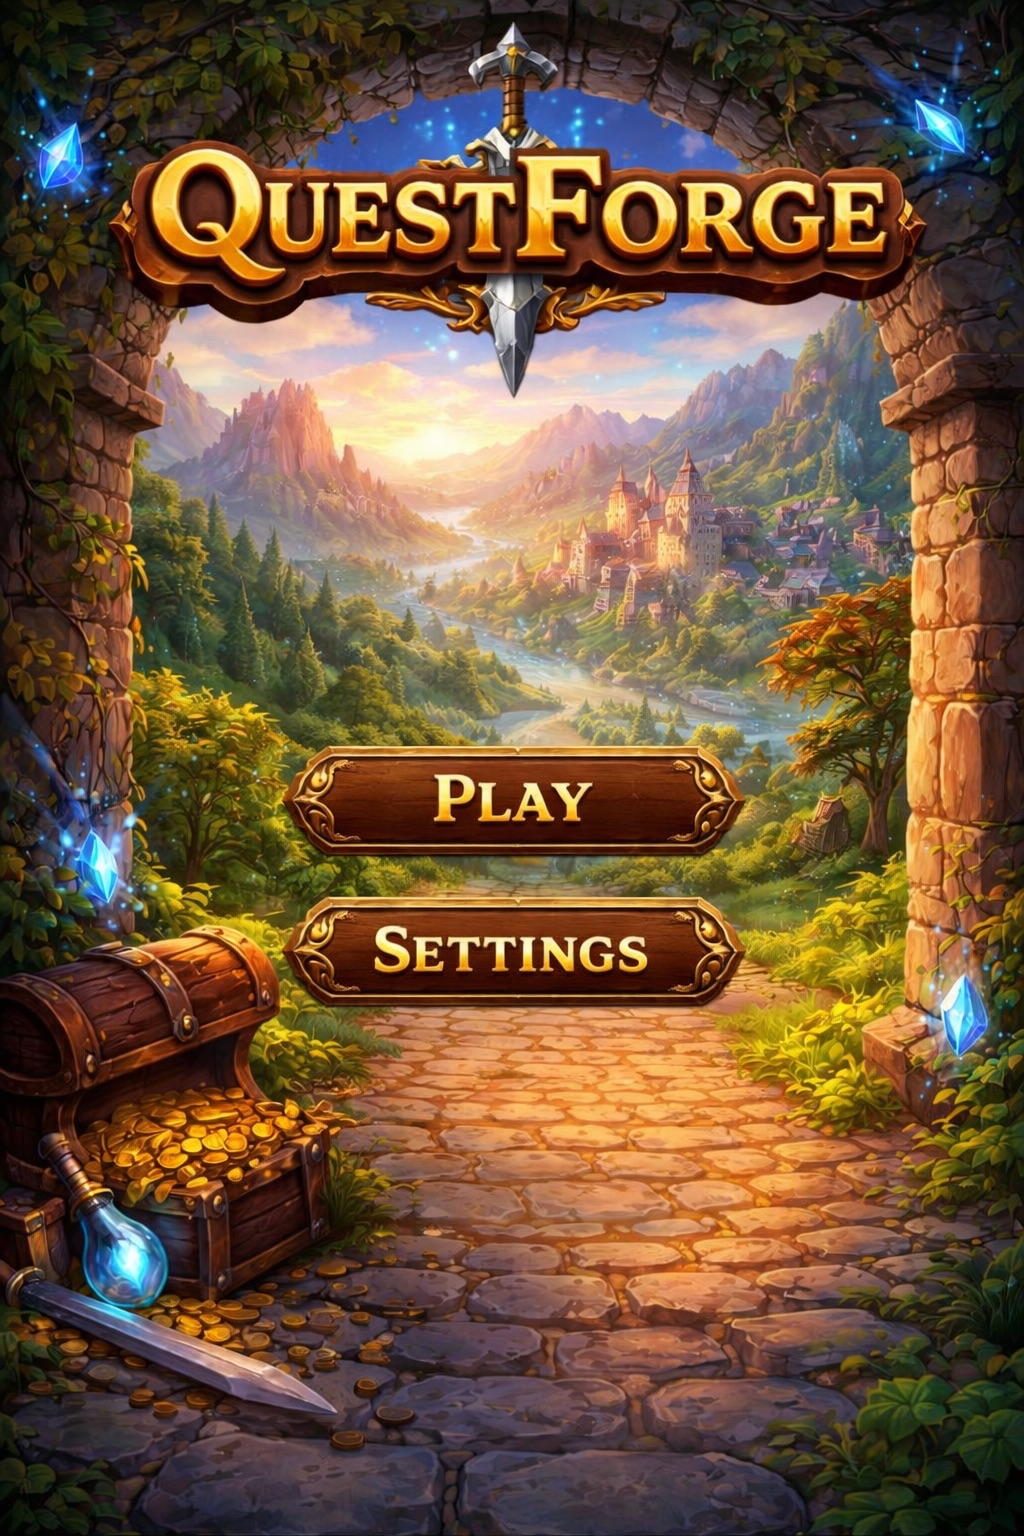
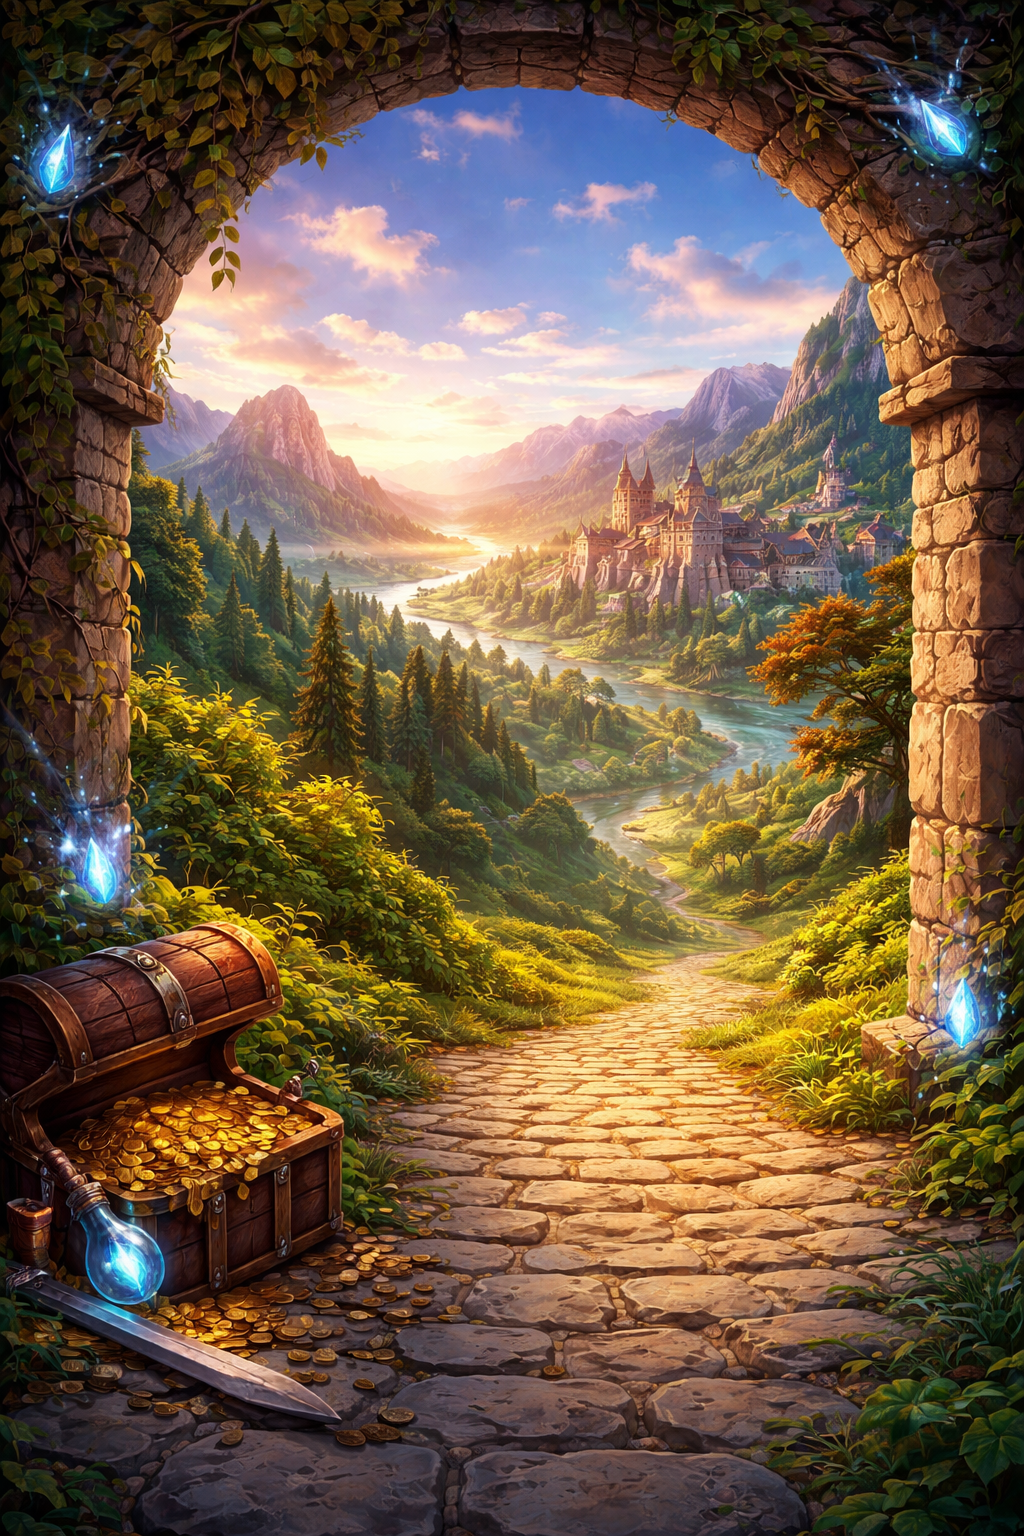
feat: new main menu with fantasy bg, styled buttons, and Linking fix
- Replaced expo-web-browser with Linking.openURL (Expo Go compatible)
- New fantasy archway background image, stretched fullscreen
- Fantasy-styled Begin Adventure and Settings buttons with Cinzel font
- Removed invisible hit zones in favor of proper styled Pressable buttons

diff --git a/app/menu.tsx b/app/menu.tsx
@@ -2,8 +2,7 @@
 // Uses the AI-generated background image with invisible Pressable hit zones
 
 import { useEffect, useState, useRef } from 'react';
-import { View, Image, Pressable, Text, StyleSheet, Dimensions, ActivityIndicator } from 'react-native';
-import * as WebBrowser from 'expo-web-browser';
+import { View, Image, Pressable, Text, StyleSheet, ActivityIndicator, Linking } from 'react-native';
 import { useRouter } from 'expo-router';
 import { Audio } from 'expo-av';
 import { supabase } from '@/services/supabase';
@@ -12,20 +11,7 @@ import * as Haptics from 'expo-haptics';
 import { useSettingsStore } from '@/stores/useSettingsStore';
 import { colors } from '@/theme/colors';
 import { parseAIContent } from '@/utils/parseAI';
-
-const { width: SCREEN_W, height: SCREEN_H } = Dimensions.get('window');
-
-// Scale image to fill most of the screen — leave just enough for legal footer
-const FOOTER_H = 120;
-const IMG_DISPLAY_H = SCREEN_H - FOOTER_H;
-
-// Button positions as % of the image's displayed height
-const PLAY_TOP = IMG_DISPLAY_H * 0.505;
-const PLAY_H = IMG_DISPLAY_H * 0.065;
-const SETTINGS_TOP = IMG_DISPLAY_H * 0.595;
-const SETTINGS_H = IMG_DISPLAY_H * 0.065;
-const BTN_LEFT = SCREEN_W * 0.15;
-const BTN_WIDTH = SCREEN_W * 0.70;
+import { useSafeAreaInsets } from 'react-native-safe-area-context';
 
 export default function MenuScreen() {
   const router = useRouter();
@@ -150,63 +136,67 @@ export default function MenuScreen() {
     router.push('/settings');
   };
 
+  const insets = useSafeAreaInsets();
+
   return (
     <View style={styles.container}>
       <Image
         source={require('../assets/main-menu-bg.png')}
-        style={{ width: SCREEN_W, height: IMG_DISPLAY_H }}
+        style={StyleSheet.absoluteFill}
         resizeMode="stretch"
       />
 
-      {/* Hit zones over painted buttons */}
-      <Pressable
-        style={[styles.hitZone, {
-          top: PLAY_TOP,
-          left: BTN_LEFT,
-          width: BTN_WIDTH,
-          height: PLAY_H,
-        }]}
-        onPress={handlePlay}
-        disabled={loading}
-      />
+      {/* Bottom content area */}
+      <View style={[styles.bottomArea, { paddingBottom: Math.max(insets.bottom, 16) }]}>
+        {/* Buttons */}
+        <View style={styles.buttonGroup}>
+          <Pressable
+            onPress={handlePlay}
+            disabled={loading}
+            style={({ pressed }) => [
+              styles.btn,
+              styles.btnPlay,
+              pressed && styles.btnPressed,
+            ]}
+          >
+            <View style={styles.btnInner}>
+              <Text style={styles.btnPlayText}>Begin Adventure</Text>
+            </View>
+          </Pressable>
 
-      <Pressable
-        style={[styles.hitZone, {
-          top: SETTINGS_TOP,
-          left: BTN_LEFT,
-          width: BTN_WIDTH,
-          height: SETTINGS_H,
-        }]}
-        onPress={handleSettings}
-      />
+          <Pressable
+            onPress={handleSettings}
+            style={({ pressed }) => [
+              styles.btn,
+              styles.btnSettings,
+              pressed && styles.btnPressed,
+            ]}
+          >
+            <Text style={styles.btnSettingsText}>Settings</Text>
+          </Pressable>
+        </View>
 
-      {/* Legal footer in the black space below the image */}
-      <View style={styles.legalFooter}>
+        {/* Legal */}
         <Text style={styles.legalAI}>
-          Game narration powered by AI (Claude by Anthropic).{'\n'}
-          All game mechanics resolved by deterministic engine.
+          Game narration powered by AI (Claude by Anthropic)
         </Text>
         <View style={styles.legalLinks}>
           <Text
             style={styles.legalLink}
-            onPress={() => WebBrowser.openBrowserAsync('https://bsbdtdexdlyruojyabtn.supabase.co/storage/v1/object/public/legal/privacy-policy.html')}
+            onPress={() => Linking.openURL('https://bsbdtdexdlyruojyabtn.supabase.co/storage/v1/object/public/legal/privacy-policy.html')}
           >
             Privacy Policy
           </Text>
           <Text style={styles.legalDot}> · </Text>
           <Text
             style={styles.legalLink}
-            onPress={() => WebBrowser.openBrowserAsync('https://bsbdtdexdlyruojyabtn.supabase.co/storage/v1/object/public/legal/terms-of-service.html')}
+            onPress={() => Linking.openURL('https://bsbdtdexdlyruojyabtn.supabase.co/storage/v1/object/public/legal/terms-of-service.html')}
           >
             Terms of Service
           </Text>
         </View>
-        <Text style={styles.legalCopy}>
-          v0.1.0 · Made with ⚔ in the Realm
-        </Text>
       </View>
 
-      {/* Loading spinner when Play is pressed */}
       {loading && (
         <View style={styles.loadingOverlay}>
           <ActivityIndicator size="large" color={colors.gold.primary} />
@@ -221,39 +211,81 @@ const styles = StyleSheet.create({
     flex: 1,
     backgroundColor: '#0d0a08',
   },
-  hitZone: {
+  bottomArea: {
     position: 'absolute',
+    bottom: 0,
+    left: 0,
+    right: 0,
+    alignItems: 'center',
+    paddingHorizontal: 32,
   },
-  legalFooter: {
-    paddingHorizontal: 24,
-    paddingTop: 20,
-    paddingBottom: 40,
+  buttonGroup: {
+    width: '100%',
+    alignItems: 'center',
+    gap: 14,
+    marginBottom: 24,
+  },
+  btn: {
+    width: '85%',
+    borderRadius: 8,
+    alignItems: 'center',
+    justifyContent: 'center',
+  },
+  btnPressed: {
+    opacity: 0.8,
+    transform: [{ scale: 0.97 }],
+  },
+  btnPlay: {
+    backgroundColor: 'rgba(13,10,8,0.7)',
+    borderWidth: 1.5,
+    borderColor: '#b48c3c',
+    paddingVertical: 16,
+  },
+  btnInner: {
     alignItems: 'center',
   },
+  btnPlayText: {
+    fontFamily: 'Cinzel_700Bold',
+    fontSize: 20,
+    color: '#e8dcc8',
+    letterSpacing: 2,
+    textTransform: 'uppercase',
+    textShadowColor: 'rgba(180,140,60,0.5)',
+    textShadowOffset: { width: 0, height: 1 },
+    textShadowRadius: 6,
+  },
+  btnSettings: {
+    backgroundColor: 'rgba(13,10,8,0.5)',
+    borderWidth: 1,
+    borderColor: 'rgba(180,140,60,0.35)',
+    paddingVertical: 12,
+  },
+  btnSettingsText: {
+    fontFamily: 'Cinzel_400Regular',
+    fontSize: 15,
+    color: 'rgba(232,220,200,0.7)',
+    letterSpacing: 1.5,
+    textTransform: 'uppercase',
+  },
   legalAI: {
-    color: '#6b5d4d',
-    fontSize: 11,
+    color: 'rgba(232,220,200,0.35)',
+    fontSize: 10,
     textAlign: 'center',
-    lineHeight: 16,
-    marginBottom: 12,
+    marginBottom: 6,
   },
   legalLinks: {
     flexDirection: 'row',
     alignItems: 'center',
-    marginBottom: 12,
+    marginBottom: 4,
   },
   legalLink: {
-    color: '#b48c3c',
-    fontSize: 12,
+    color: 'rgba(180,140,60,0.5)',
+    fontSize: 11,
     textDecorationLine: 'underline',
   },
   legalDot: {
-    color: '#4a4035',
-    fontSize: 12,
-  },
-  legalCopy: {
-    color: '#4a4035',
-    fontSize: 10,
+    color: 'rgba(232,220,200,0.25)',
+    fontSize: 11,
   },
   loadingOverlay: {
     ...StyleSheet.absoluteFillObject,
